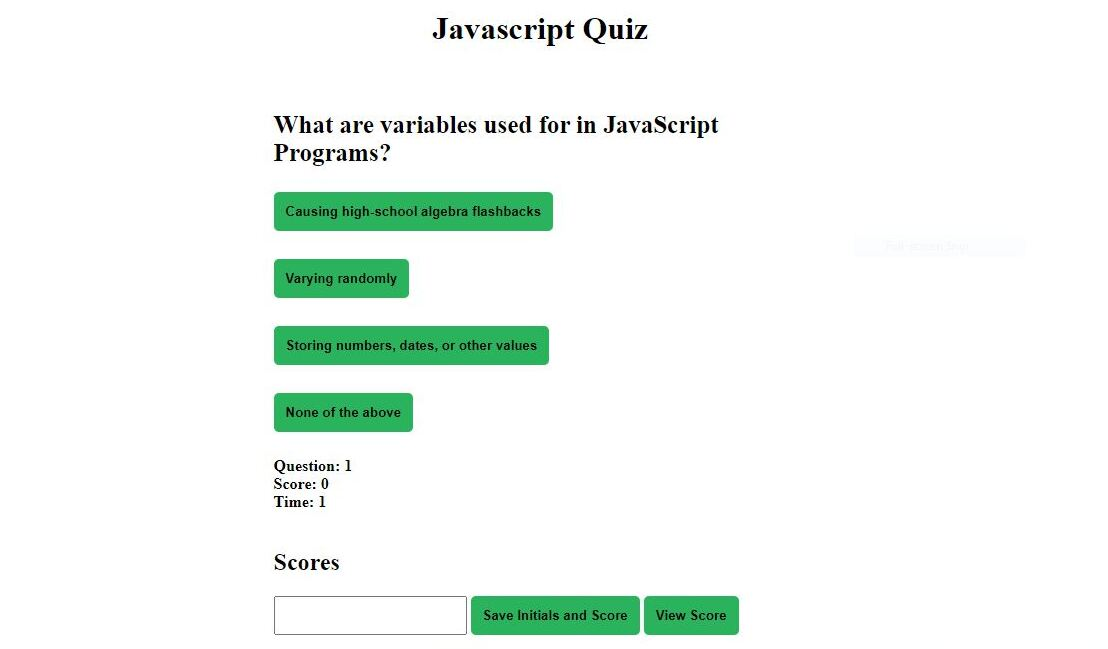
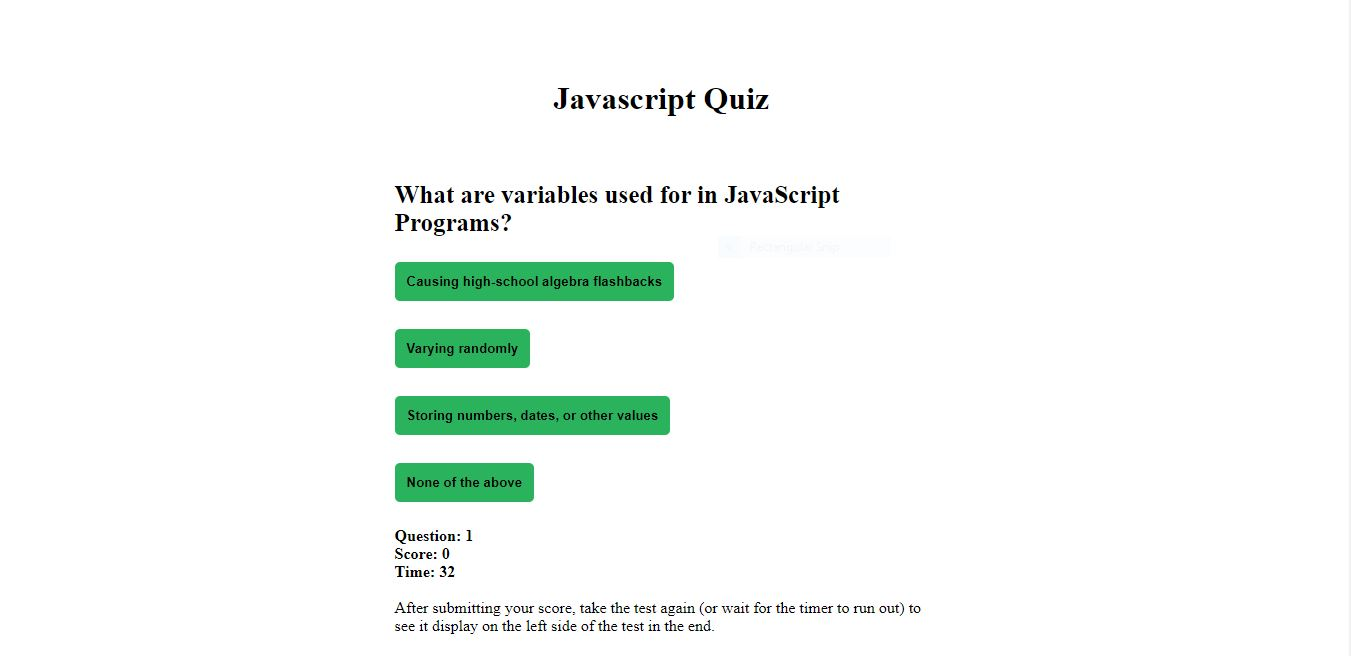
edit README.md to reflect changes - storage and timer

diff --git a/README.md b/README.md
@@ -2,7 +2,7 @@
 
 ## Purpose
 
-The objective of this website is to quiz the website user on the programming language of JavaScript. The responder must answer ten questions. The responsder is given 10 seconds for each question. If the time runs out before the responder answers a question, then the quiz will be over. After the quiz is finished, the responder can manually save the score by typing a pair of initials (or a name if prefered) and the score next to said initials.
+The objective of this website is to quiz the website user on the programming language of JavaScript. The responder must answer ten questions. The responsder is given 40 seconds for the entire quiz. Each time the responder selects an incorrect answer, three seconds will be subtracted from the timer. When the timer runs out, then the quiz will be over. After the quiz is finished, the responder can save the score via the submission of a name or a pair of initials. Past scores will be display on the left-hand side of the screen at the end of the quiz. 
 
 ## Built With
  * HTML
@@ -14,10 +14,6 @@ The objective of this website is to quiz the website user on the programming lan
 
 ## Website Link
 https://coderj01.github.io/javascript-code-quiz/
-
-## Challenges 
-
-The quiz functions sufficiently. Nevertheless, I will design the quiz to be able to automatically keep the score once I improve my JavaScript programming skills. I will also engineer the quiz to subtract time should the responder select an incorrect answer. 
 
 ## Contribution
 Made by Joshua
